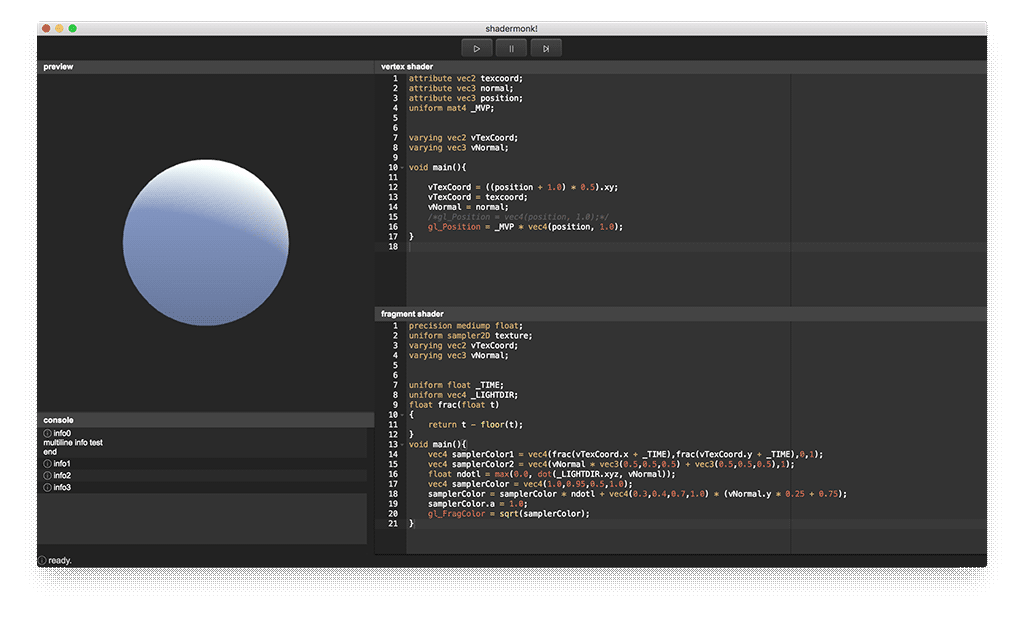
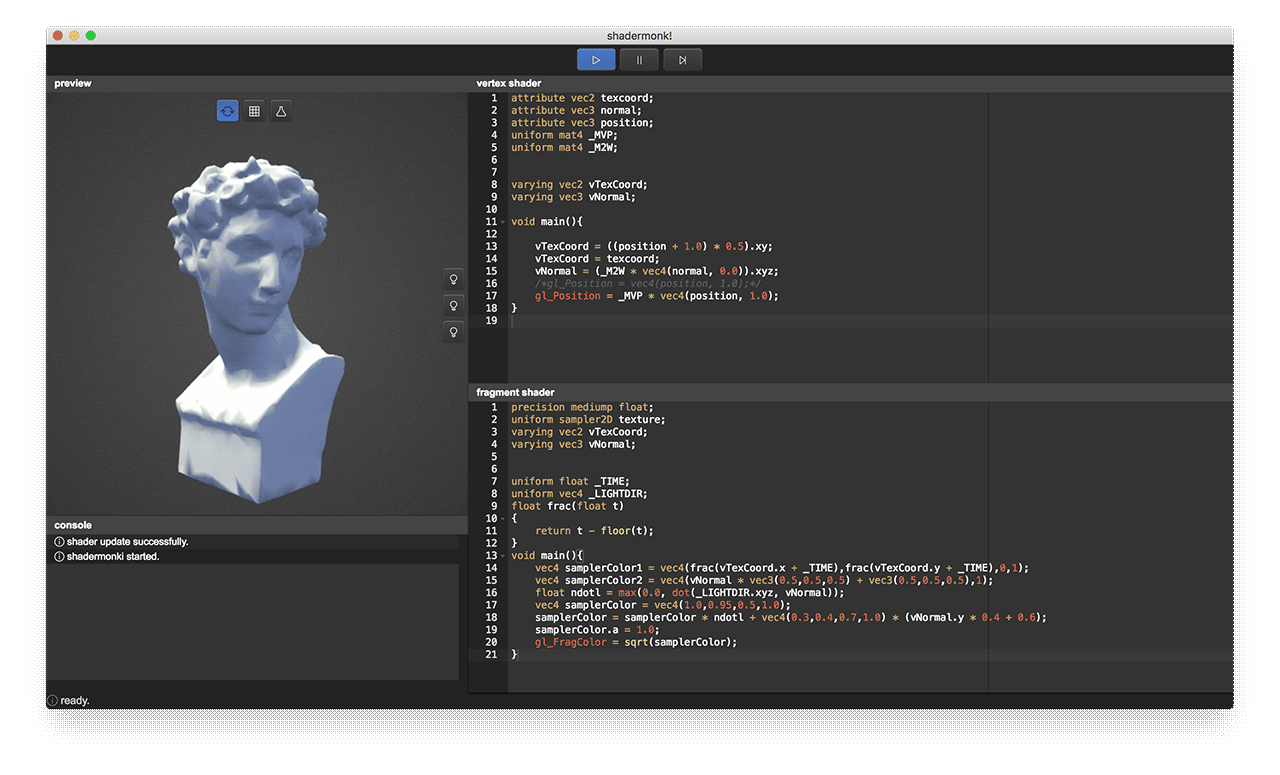
make bg render

diff --git a/lib/gk-render.js b/lib/gk-render.js
@@ -12,6 +12,7 @@ renderer.bgProgram = null;
 
 renderer.quadMesh = null;
 renderer.quadProgram = null;
+
 renderer.timer = 0;
 renderer.modelrotation = 0;
 renderer.camerarotation = 0;
@@ -36,6 +37,7 @@ renderer.init = function() {
     ];
 
     this.bgMesh = glw.createMeshObject(quadPosition, quadIndex, [glw.VERTEX_LAYOUT_P, glw.VERTEX_LAYOUT_T0, glw.VERTEX_LAYOUT_N]);
+    this.bgProgram = glw.createProgramObject(quadvsp, quadfsp);//glw._create_program(vs, ps);
 
     // create a procedural sphere
     const sphere = math.mesh.sphere(24,24,1.0,[1,1,1,1]);
@@ -62,6 +64,12 @@ renderer.render = function() {
     // set z enable
     glw.gl.enable(glw.gl.DEPTH_TEST);
     glw.gl.depthFunc(glw.gl.LEQUAL);
+
+    this.bgProgram.use();
+    glw.set_uniform1f("_TIME", runTime * 0.001);
+
+    this.bgMesh.bind();
+    this.bgMesh.draw();
 
     if (this.quadProgram != null) {
         // use program
@@ -92,14 +100,14 @@ renderer.render = function() {
 
     if(this.autoRotate)
     {
-        this.modelrotation += deltaTime * 0.002;
+        this.modelrotation += deltaTime * 0.001;
     }
 
     this.camerarotation += relDelta.y * 0.005;
     this.camerarotation = Math.max( -glw.PI * 0.5, Math.min(glw.PI * 0.5, this.camerarotation) );
 
-    var sinx = Math.sin(this.camerarotation) * 75.0;
-    var cosz = Math.cos(this.camerarotation) * 75.0;
+    var sinx = Math.sin(this.camerarotation) * 60.0;
+    var cosz = Math.cos(this.camerarotation) * 60.0;
 
     math.mat4.rotate(mMatrix, this.modelrotation, [0,1,0], mMatrix);
 
@@ -142,6 +150,31 @@ renderer.updateShader = function (vsp, fsp) {
         logger.info('shader update successfully.');
     }
 }
+
+var quadvsp = "attribute vec3 position;\
+varying vec2 vTexCoord;\
+void main(){\
+    vTexCoord = ((position + 1.0) * 0.5).xy;\
+    gl_Position = vec4(position, 1.0);\
+}\
+";
+
+var quadfsp = "precision mediump float;\
+uniform sampler2D texture;\
+varying vec2 vTexCoord;\
+uniform float _TIME;\
+float snoise(vec2 co){\
+return fract(sin(dot(co.xy ,vec2(12.9898,78.233))) * 43758.5453);\
+}\
+void main(){\
+    float noise = fract(_TIME);\
+    vec4 samplerColor = vec4(0.3,0.3,0.3,1.0);\
+    float vignette = 1.0 - length((vTexCoord.xy - vec2(0.5,0.5)) * vec2(1.5, 1.5));\
+    samplerColor *= vignette;\
+    samplerColor += snoise(vTexCoord.xy + vec2(noise,noise)) * 0.04;\
+    gl_FragColor = samplerColor;\
+}\
+";
 
 /**
  * Created by kaimingyi on 2016/11/7.

diff --git a/renderer.js b/renderer.js
@@ -57,7 +57,7 @@ window.onload = function(){
     //logger = window.parent.logger;
     logger.init(bid('console-log-container'));
 
-    logger.info('test');
+    logger.info('shadermonki started.');
 
     //win = window;
     var canvas = bid('canvas');
